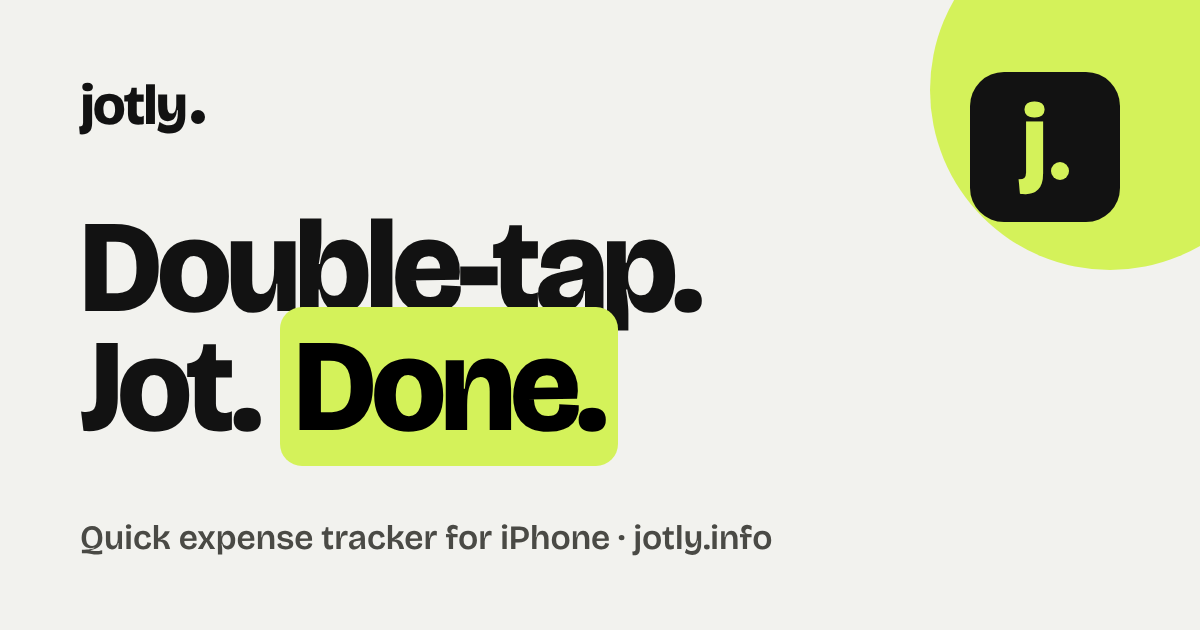
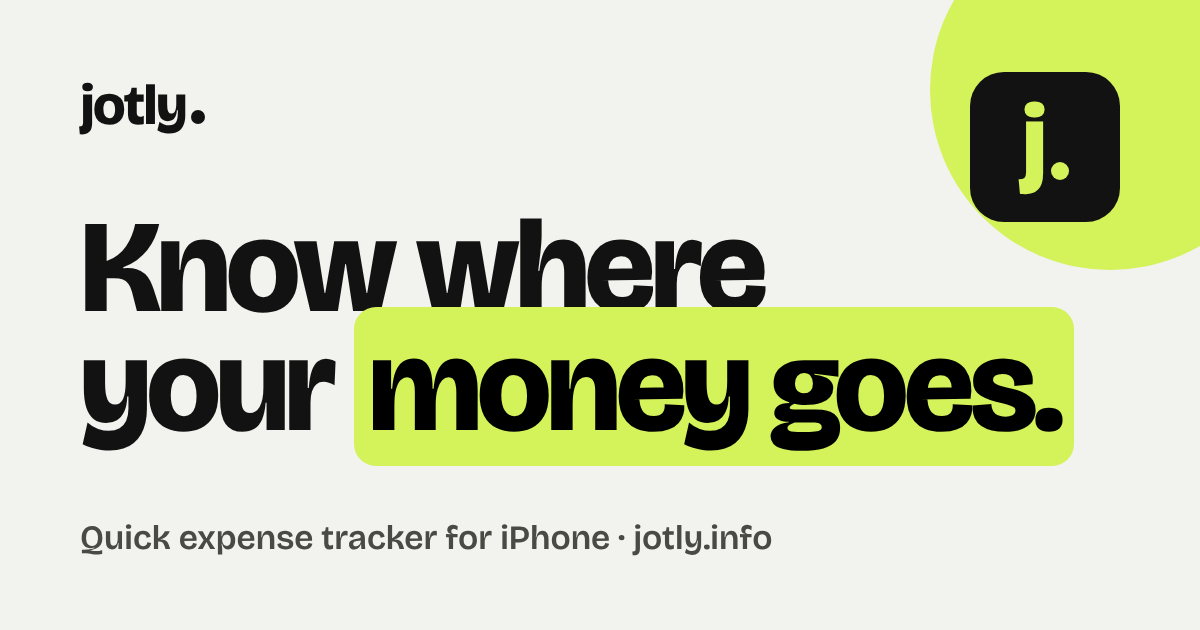
New hero headline: Know where your money goes
- Clearer headline in EN / RU / ES; the 3-second speed and Back Tap
  move into the line underneath
- Highlighted phrase no longer breaks across lines; headline sized
  for the new text
- Share image and og:title updated to match

Claude-Session: https://claude.ai/code/session_01TtUb3ZzubaCiPTUD9w8Nv4

Changed region(s): [[0.0617, 0.3317, 0.8942, 0.754]]

diff --git a/js/main.js b/js/main.js
@@ -6,8 +6,8 @@
     en: {
       'nav.how': 'How it works', 'nav.features': 'Features', 'nav.pricing': 'Pricing', 'nav.faq': 'FAQ', 'nav.cta': 'Get the app',
       'hero.badge': 'Expense tracker for iPhone',
-      'hero.title': 'Double-tap.<br>Jot. <mark>Done.</mark>',
-      'hero.lede': 'Jotly logs an expense in about three seconds — tap the back of your iPhone, type the amount, pick a category. See where every dram, dollar and euro went.',
+      'hero.title': 'Know where<br>your <mark>money goes.</mark>',
+      'hero.lede': 'Jotly logs an expense in about three seconds — double-tap the back of your iPhone, type the amount, pick a category. Dram, dollars or euros, all in one place.',
       'hero.cta': 'Start free month', 'hero.cta2': 'See how it works',
       'hero.fine': 'iPhone · 1 month free, then $4.90/month',
       'how.kicker': 'How it works', 'how.title': 'Faster than forgetting.',
@@ -42,8 +42,8 @@
     ru: {
       'nav.how': 'Как это работает', 'nav.features': 'Возможности', 'nav.pricing': 'Цена', 'nav.faq': 'Вопросы', 'nav.cta': 'Скачать',
       'hero.badge': 'Учёт расходов для iPhone',
-      'hero.title': 'Двойной тап.<br>Записал. <mark>Готово.</mark>',
-      'hero.lede': 'Jotly записывает расход примерно за три секунды — коснитесь задней панели iPhone, введите сумму, выберите категорию. Видно, куда ушёл каждый драм, доллар и евро.',
+      'hero.title': 'Знайте, куда<br>уходят <mark>ваши деньги.</mark>',
+      'hero.lede': 'Jotly записывает расход примерно за три секунды — дважды коснитесь задней панели iPhone, введите сумму, выберите категорию. Драмы, доллары или евро — всё в одном месте.',
       'hero.cta': 'Месяц бесплатно', 'hero.cta2': 'Как это работает',
       'hero.fine': 'iPhone · месяц бесплатно, затем $4.90 в месяц',
       'how.kicker': 'Как это работает', 'how.title': 'Быстрее, чем забыть.',
@@ -78,8 +78,8 @@
     es: {
       'nav.how': 'Cómo funciona', 'nav.features': 'Funciones', 'nav.pricing': 'Precio', 'nav.faq': 'Preguntas', 'nav.cta': 'Descargar',
       'hero.badge': 'Control de gastos para iPhone',
-      'hero.title': 'Doble toque.<br>Anotado. <mark>Listo.</mark>',
-      'hero.lede': 'Jotly registra un gasto en unos tres segundos: toca la parte trasera de tu iPhone, escribe el importe y elige una categoría. Mira a dónde fue cada dram, dólar y euro.',
+      'hero.title': 'Descubre a dónde<br>va <mark>tu dinero.</mark>',
+      'hero.lede': 'Jotly registra un gasto en unos tres segundos: toca dos veces la parte trasera de tu iPhone, escribe el importe y elige una categoría. Drams, dólares o euros, todo en un solo lugar.',
       'hero.cta': 'Prueba un mes gratis', 'hero.cta2': 'Cómo funciona',
       'hero.fine': 'iPhone · 1 mes gratis, después $4.90 al mes',
       'how.kicker': 'Cómo funciona', 'how.title': 'Más rápido que olvidarlo.',

diff --git a/index.html b/index.html
@@ -6,7 +6,7 @@
 <title>Jotly — Quick Expense Tracker for iPhone</title>
 <meta name="description" content="Jotly logs an expense in about three seconds. Double-tap the back of your iPhone, type the amount, pick a category. Multi-currency, budgets and insights.">
 <meta name="theme-color" content="#F2F2EE">
-<meta property="og:title" content="Jotly — Double-tap. Jot. Done.">
+<meta property="og:title" content="Jotly — Know where your money goes">
 <meta property="og:description" content="Log an expense in about three seconds on iPhone. Multi-currency, budgets and insights.">
 <meta property="og:url" content="https://jotly.info/">
 <meta property="og:type" content="website">
@@ -88,8 +88,8 @@
 <section id="top" class="hero wrap">
   <div class="hero-copy">
     <span class="pill"><span class="pill-dot"></span><span data-i18n="hero.badge">Expense tracker for iPhone</span></span>
-    <h1 class="hero-title" data-i18n-html="hero.title">Double-tap.<br>Jot. <mark>Done.</mark></h1>
-    <p class="hero-lede" data-i18n="hero.lede">Jotly logs an expense in about three seconds — tap the back of your iPhone, type the amount, pick a category. See where every dram, dollar and euro went.</p>
+    <h1 class="hero-title" data-i18n-html="hero.title">Know where<br>your <mark>money goes.</mark></h1>
+    <p class="hero-lede" data-i18n="hero.lede">Jotly logs an expense in about three seconds — double-tap the back of your iPhone, type the amount, pick a category. Dram, dollars or euros, all in one place.</p>
     <div class="hero-ctas">
       <a href="https://apps.apple.com/app/jotly-quick-expense-jot/id6829495781" class="btn btn-dark btn-lg">
         <svg width="20" height="20" viewBox="0 0 24 24" fill="none" stroke="currentColor" stroke-width="1.8" stroke-linecap="round" stroke-linejoin="round" aria-hidden="true"><rect x="6" y="2" width="12" height="20" rx="3"/><path d="M11 18h2"/></svg>

diff --git a/css/styles.css b/css/styles.css
@@ -78,10 +78,10 @@ h3 { margin: 0; font-family: var(--display); font-weight: 700; }
 .hero-copy { flex: 1 1 480px; min-width: 0; display: flex; flex-direction: column; gap: 28px; }
 .pill { align-self: flex-start; display: flex; align-items: center; gap: 8px; height: 34px; padding: 0 14px; border-radius: 17px; background: var(--white); font-size: 14px; font-weight: 600; }
 .pill-dot { width: 8px; height: 8px; border-radius: 4px; background: var(--ink); }
-.hero-title { margin: 0; font-family: var(--display); font-weight: 800; font-size: clamp(52px, 7vw, 104px); line-height: 0.92; letter-spacing: -0.04em; }
+.hero-title { margin: 0; font-family: var(--display); font-weight: 800; font-size: clamp(48px, 6.2vw, 92px); line-height: 0.95; letter-spacing: -0.04em; }
 html[lang="ru"] .hero-title { font-size: clamp(48px, 6.4vw, 92px); line-height: 0.95; }
-html[lang="es"] .hero-title { font-size: clamp(50px, 6.8vw, 100px); line-height: 0.93; }
-.hero-title mark { background: var(--lime); color: inherit; border-radius: 0.18em; padding: 0 0.12em; }
+html[lang="es"] .hero-title { font-size: clamp(46px, 6vw, 88px); line-height: 0.95; }
+.hero-title mark { background: var(--lime); color: inherit; border-radius: 0.18em; padding: 0 0.12em; white-space: nowrap; }
 .hero-lede { margin: 0; max-width: 520px; font-size: 20px; line-height: 1.5; color: var(--text-2); }
 .hero-ctas { display: flex; flex-wrap: wrap; gap: 12px; }
 .hero-visual { flex: 1 1 360px; display: flex; justify-content: center; position: relative; }
